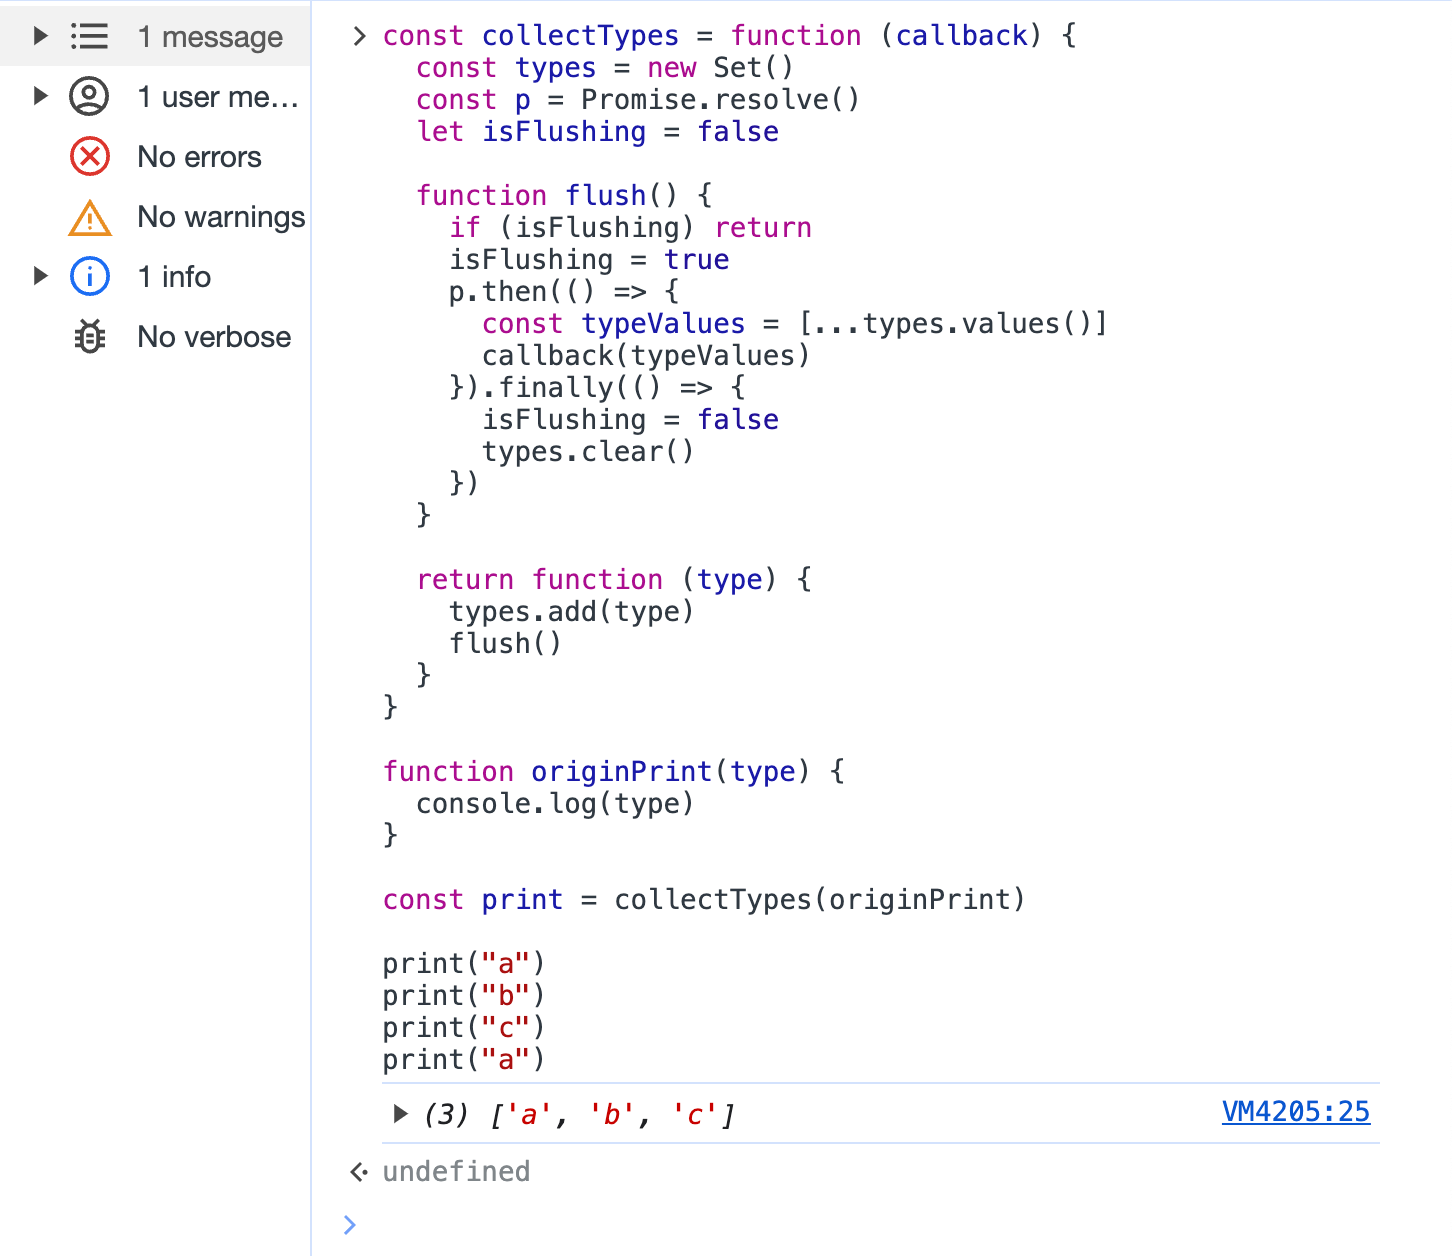
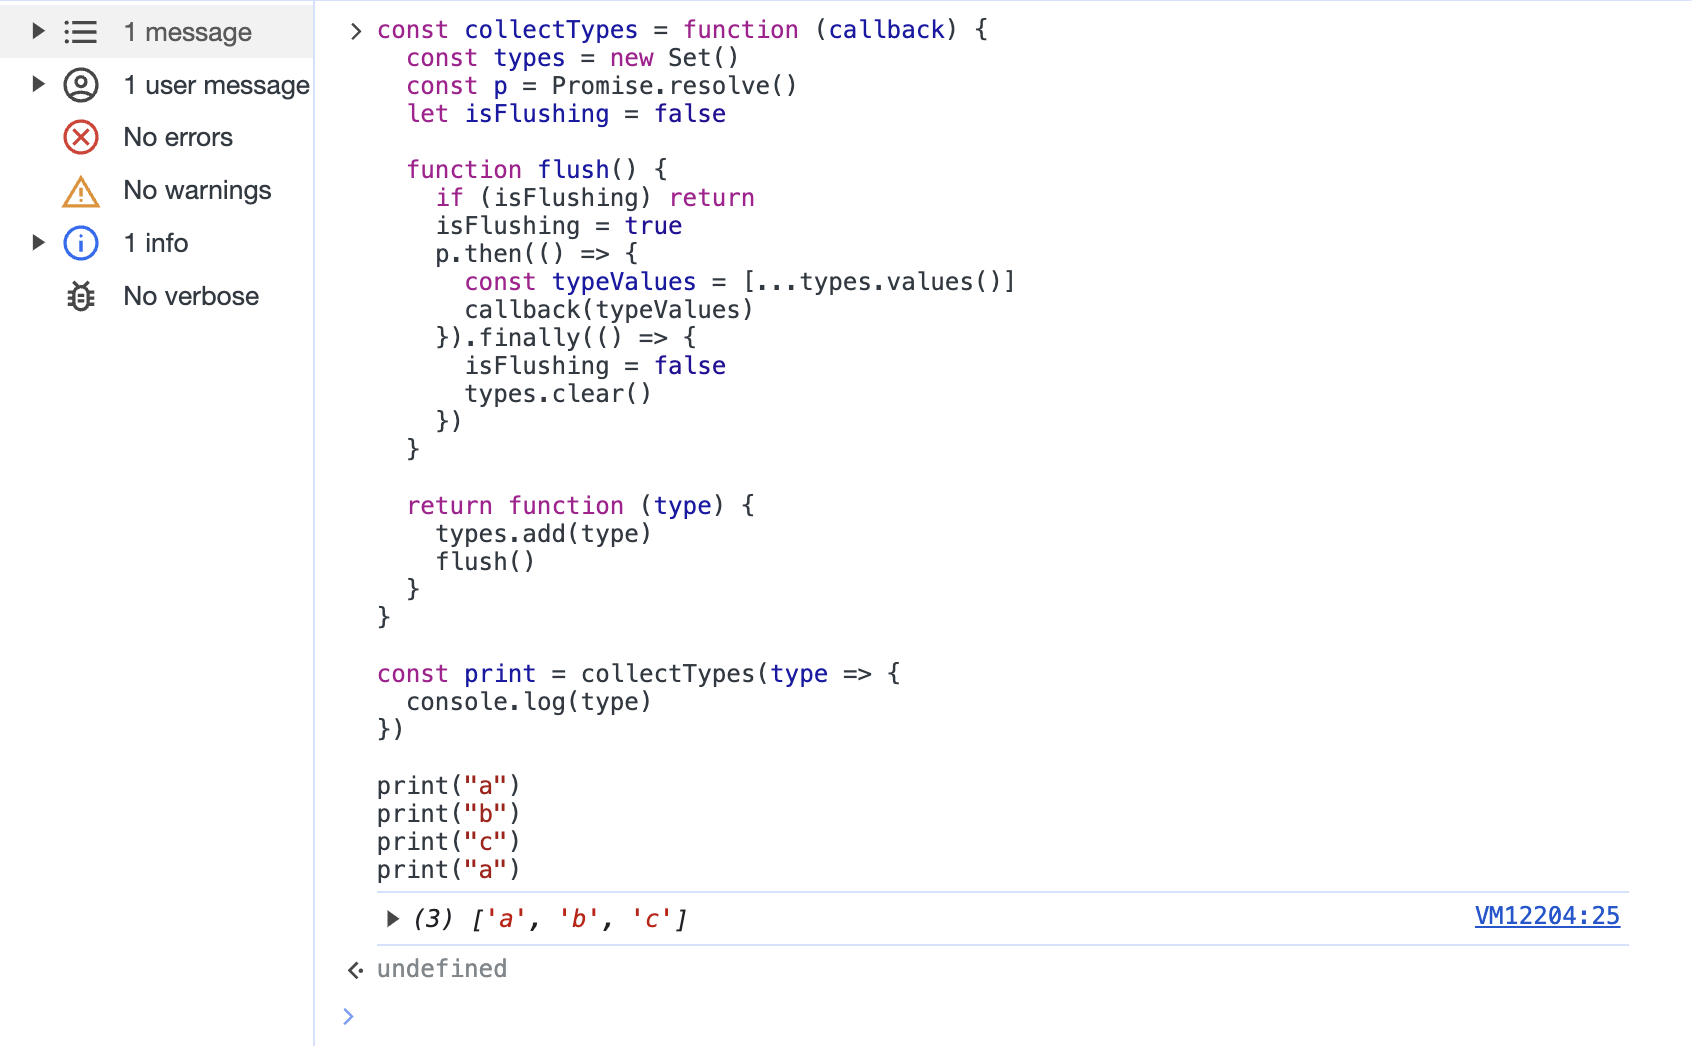
Site updated: 2023-11-27 23:29:07

diff --git a/62fd577e3678.html b/62fd577e3678.html
@@ -7,7 +7,7 @@
 <p>再设想几个场景，如果组件 A 与 组件 B 不是兄弟组件呢？如果组件 A 需要在另一个组件中复用呢？这种通过在祖先组件内调用接口，获取数据后再传递给对应后代组件的方式，是不是就不太合适了。所以还是尽可能地将某个组件的内部逻辑与其他组件进行解耦，减少它们之间的关联，这样才能方便后续的复用。</p>
 <p>这时候，你可能在想，那每个组件各自调用接口不就好了。但是呢，明明是同一个接口，只是入参中的某个参数不一样，却调用了多次，而且明明是可以同时传入多种类型参数的，嘶，总感觉不是很优雅。<span style="border-bottom: 1px dashed">如果能把这些调用的接口合并成一个接口，获取数据后按照类型进行拆分，然后根据每个调用所需的类型返回对应类型的数据</span>，那该多好呀。那么这能实现吗？当然可以！</p>
 <p><img src="/62fd577e3678/idea.excalidraw.png" alt="idea"></p>
-<h4 id="收集类型"><a href="#收集类型" class="headerlink" title="收集类型"></a>收集类型</h4><p>首先，先思考一个问题，如果一个函数如果同时调用了多次，那么如何只执行一次呢？比如，对于下面这段代码：</p>
+<h4 id="收集类型"><a href="#收集类型" class="headerlink" title="收集类型"></a>收集类型</h4><p>首先，先思考一个问题，如果一个函数同步调用了多次，那么如何只执行一次呢？比如，对于下面这段代码：</p>
 <pre class="language-javascript" data-language="javascript"><code class="language-javascript"><span class="token keyword">function</span> <span class="token function">print</span><span class="token punctuation">(</span><span class="token punctuation">)</span> <span class="token punctuation">&#123;</span>
   console<span class="token punctuation">.</span><span class="token function">log</span><span class="token punctuation">(</span><span class="token string">"print"</span><span class="token punctuation">)</span>
 <span class="token punctuation">&#125;</span>
@@ -17,7 +17,7 @@
 <span class="token punctuation">&#125;</span></code></pre>
 
 <p>毫无疑问会打印 <code>10</code> 次 <code>print</code>。如果只想打印 <code>1</code> 次 <code>print</code>，该如何实现？</p>
-<p>先来了解一下 <em>Vue</em> 中响应式数据更新的优化策略：<span style="border-bottom: 1px dashed">把需要触发的回调函数放进一个任务队列中，同时过滤掉相同的回调，并在下一次事件循环中执行队列中的所有回调。</span>（下面的代码源自：《Vue.js 设计与实现》P63）</p>
+<p>不妨先了解一个小知识点：<em>Vue</em> 中响应式数据更新的优化策略，它的主体思想就是：<span style="border-bottom: 1px dashed">把需要触发的回调函数放进一个任务队列中，同时过滤掉相同的回调，并在下一次事件循环中执行队列中的所有回调。</span>（下面的代码源自：《Vue.js 设计与实现》P63）</p>
 <pre class="language-javascript" data-language="javascript"><code class="language-javascript"><span class="token comment">// 定义一个任务队列</span>
 <span class="token keyword">const</span> jobQueue <span class="token operator">=</span> <span class="token keyword">new</span> <span class="token class-name">Set</span><span class="token punctuation">(</span><span class="token punctuation">)</span>
 <span class="token comment">// 使用 Promise.resolve() 创建一个 promise 实例，我们用它将一个任务添加到微任务队列</span>
@@ -40,16 +40,18 @@
 <span class="token punctuation">&#125;</span></code></pre>
 
 <p>按照这个思路把 <code>print</code> 改造一下，如下：</p>
-<pre class="language-javascript" data-language="javascript"><code class="language-javascript"><span class="token keyword">function</span> <span class="token function">originPrint</span><span class="token punctuation">(</span><span class="token punctuation">)</span> <span class="token punctuation">&#123;</span>
-  console<span class="token punctuation">.</span><span class="token function">log</span><span class="token punctuation">(</span><span class="token string">"print"</span><span class="token punctuation">)</span>
+<pre class="language-javascript" data-language="javascript"><code class="language-javascript"><span class="token keyword">function</span> <span class="token function">transform</span><span class="token punctuation">(</span><span class="token parameter">callback</span><span class="token punctuation">)</span> <span class="token punctuation">&#123;</span>
+  <span class="token keyword">return</span> <span class="token keyword">function</span> <span class="token punctuation">(</span><span class="token punctuation">)</span> <span class="token punctuation">&#123;</span>
+    <span class="token comment">// 每次调用时，将回调函数添加到 jobQueue 队列中</span>
+    jobQueue<span class="token punctuation">.</span><span class="token function">add</span><span class="token punctuation">(</span>callback<span class="token punctuation">)</span>
+    <span class="token comment">// 调用 flushJob 刷新队列</span>
+    <span class="token function">flushJob</span><span class="token punctuation">(</span><span class="token punctuation">)</span>
+  <span class="token punctuation">&#125;</span>
 <span class="token punctuation">&#125;</span>
 
-<span class="token keyword">const</span> <span class="token function-variable function">print</span> <span class="token operator">=</span> <span class="token punctuation">(</span><span class="token punctuation">)</span> <span class="token operator">=></span> <span class="token punctuation">&#123;</span>
-  <span class="token comment">// 每次调用时，将回调函数添加到 jobQueue 队列中</span>
-  jobQueue<span class="token punctuation">.</span><span class="token function">add</span><span class="token punctuation">(</span>originPrint<span class="token punctuation">)</span>
-  <span class="token comment">// 调用 flushJob 刷新队列</span>
-  <span class="token function">flushJob</span><span class="token punctuation">(</span><span class="token punctuation">)</span>
-<span class="token punctuation">&#125;</span>
+<span class="token keyword">const</span> print <span class="token operator">=</span> <span class="token function">transform</span><span class="token punctuation">(</span><span class="token punctuation">(</span><span class="token punctuation">)</span> <span class="token operator">=></span> <span class="token punctuation">&#123;</span>
+  console<span class="token punctuation">.</span><span class="token function">log</span><span class="token punctuation">(</span><span class="token string">"print"</span><span class="token punctuation">)</span>
+<span class="token punctuation">&#125;</span><span class="token punctuation">)</span>
 
 <span class="token keyword">for</span> <span class="token punctuation">(</span><span class="token keyword">let</span> i <span class="token operator">=</span> <span class="token number">0</span><span class="token punctuation">;</span> i <span class="token operator">&lt;</span> <span class="token number">10</span><span class="token punctuation">;</span> i<span class="token operator">++</span><span class="token punctuation">)</span> <span class="token punctuation">&#123;</span>
   <span class="token function">print</span><span class="token punctuation">(</span><span class="token punctuation">)</span>
@@ -98,11 +100,9 @@
 <li>在 <code>promise</code> 实例 <code>p</code> 的 <code>then</code> 方法中处理最终结果，执行 <code>callback</code> 并将收集到的所有类型传入，同时在 <code>finally</code> 方法中清空 <code>types</code>。</li>
 </ul>
 <p>用法如下：</p>
-<pre class="language-javascript" data-language="javascript"><code class="language-javascript"><span class="token keyword">function</span> <span class="token function">originPrint</span><span class="token punctuation">(</span><span class="token parameter">type</span><span class="token punctuation">)</span> <span class="token punctuation">&#123;</span>
+<pre class="language-javascript" data-language="javascript"><code class="language-javascript"><span class="token keyword">const</span> print <span class="token operator">=</span> <span class="token function">collectTypes</span><span class="token punctuation">(</span><span class="token parameter">type</span> <span class="token operator">=></span> <span class="token punctuation">&#123;</span>
   console<span class="token punctuation">.</span><span class="token function">log</span><span class="token punctuation">(</span>type<span class="token punctuation">)</span>
-<span class="token punctuation">&#125;</span>
-
-<span class="token keyword">const</span> print <span class="token operator">=</span> <span class="token function">collectTypes</span><span class="token punctuation">(</span>originPrint<span class="token punctuation">)</span>
+<span class="token punctuation">&#125;</span><span class="token punctuation">)</span>
 
 <span class="token function">print</span><span class="token punctuation">(</span><span class="token string">"a"</span><span class="token punctuation">)</span>
 <span class="token function">print</span><span class="token punctuation">(</span><span class="token string">"b"</span><span class="token punctuation">)</span>
@@ -139,7 +139,7 @@
 <span class="token punctuation">&#125;</span></code></pre>
 
 <ul>
-<li>改了一个更合适的名称 <code>mergeSimilarRequest</code>，高 ～ 大 ～ 上 ～。</li>
+<li>换一个更符合气质的名字：<code>mergeSimilarRequest</code> —— <em>合并相似请求</em> 。</li>
 <li>入参调整为 <code>request</code>（发起请求的方法），在最后处理阶段，将所有的类型传给 <code>request</code>，把获取数据的过程交给 <code>request</code>，只需要它的返回结果即可。</li>
 <li>刷新队列时，对 <code>p</code> 进行重新赋值，<code>p</code> 的结果即为 <code>request</code> 的执行结果（请求的所有数据）。</li>
 <li>返回的函数 <code>fetchData</code> 的执行结果：返回当前的 <code>p</code> 实例。</li>
